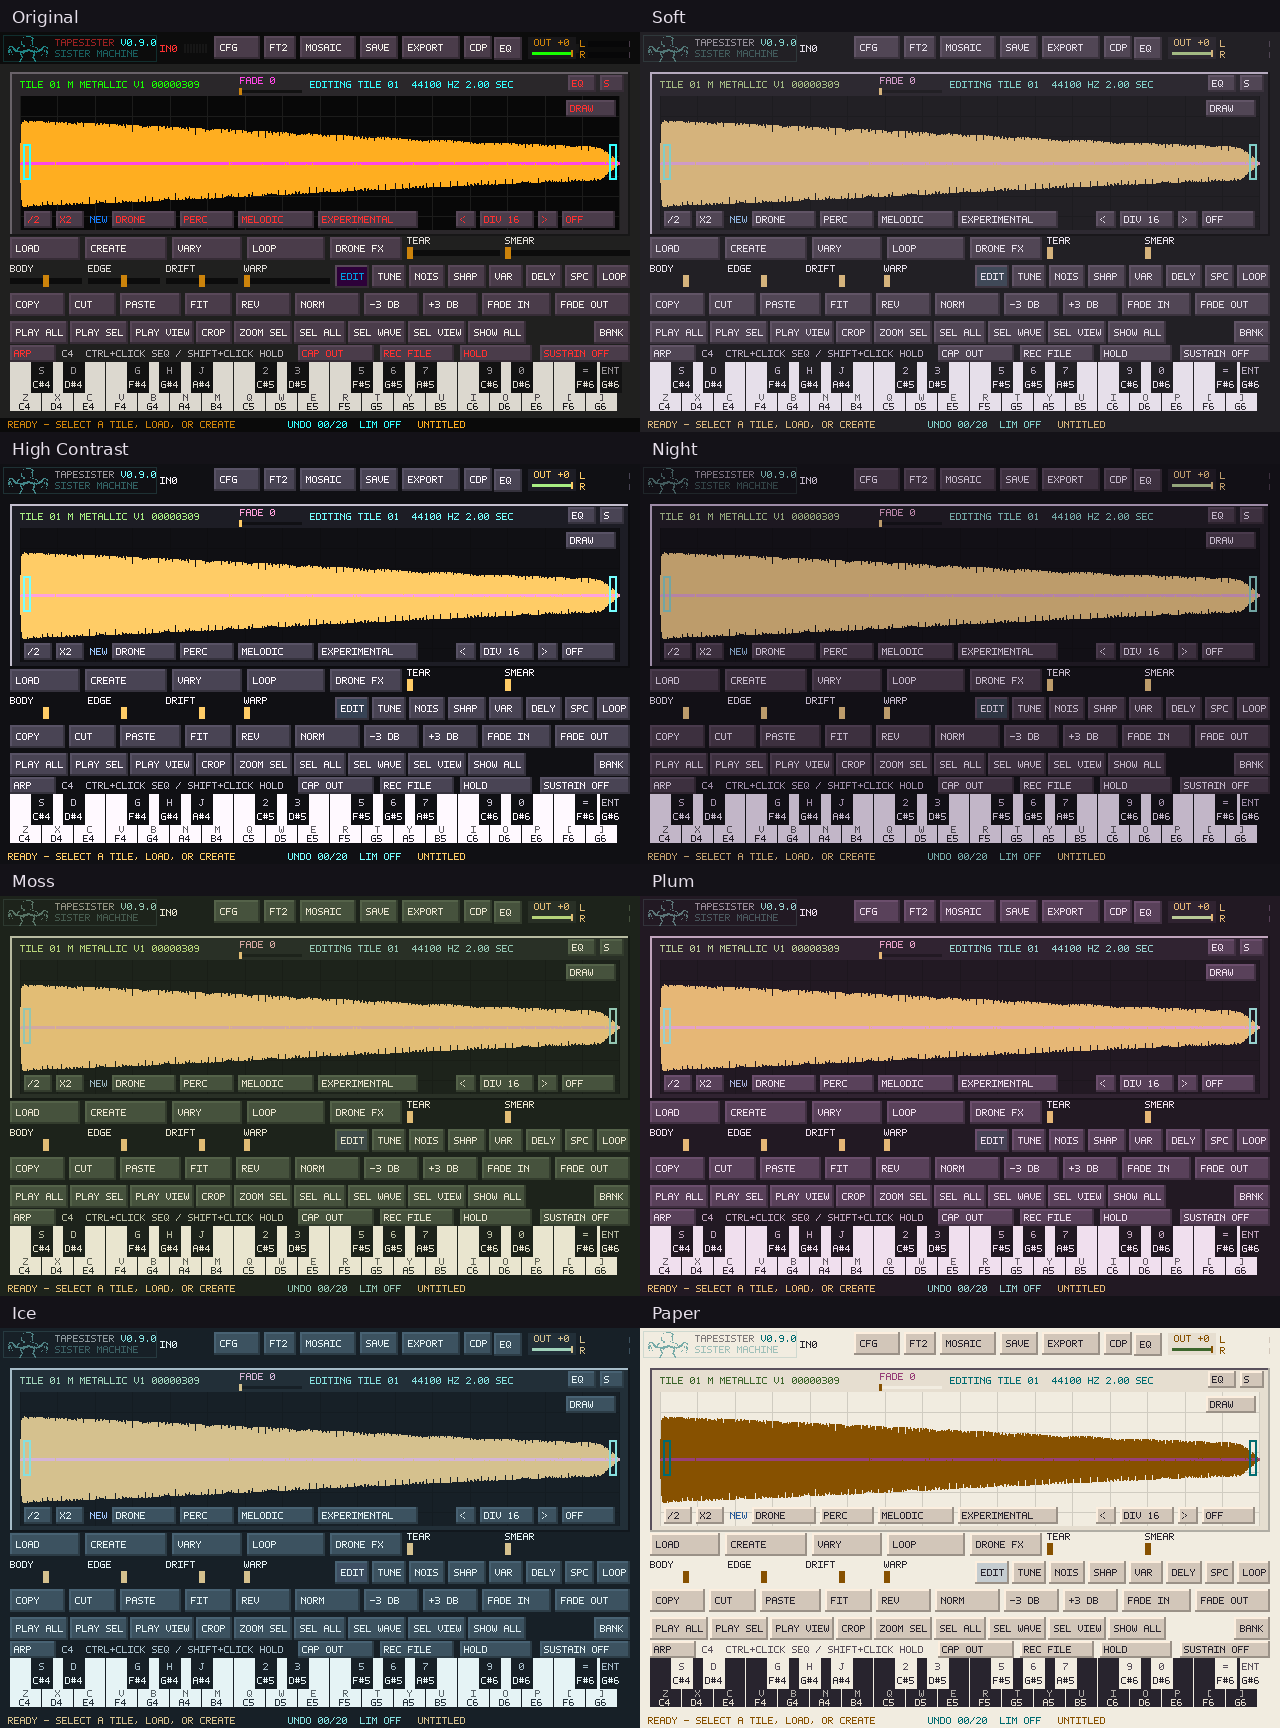
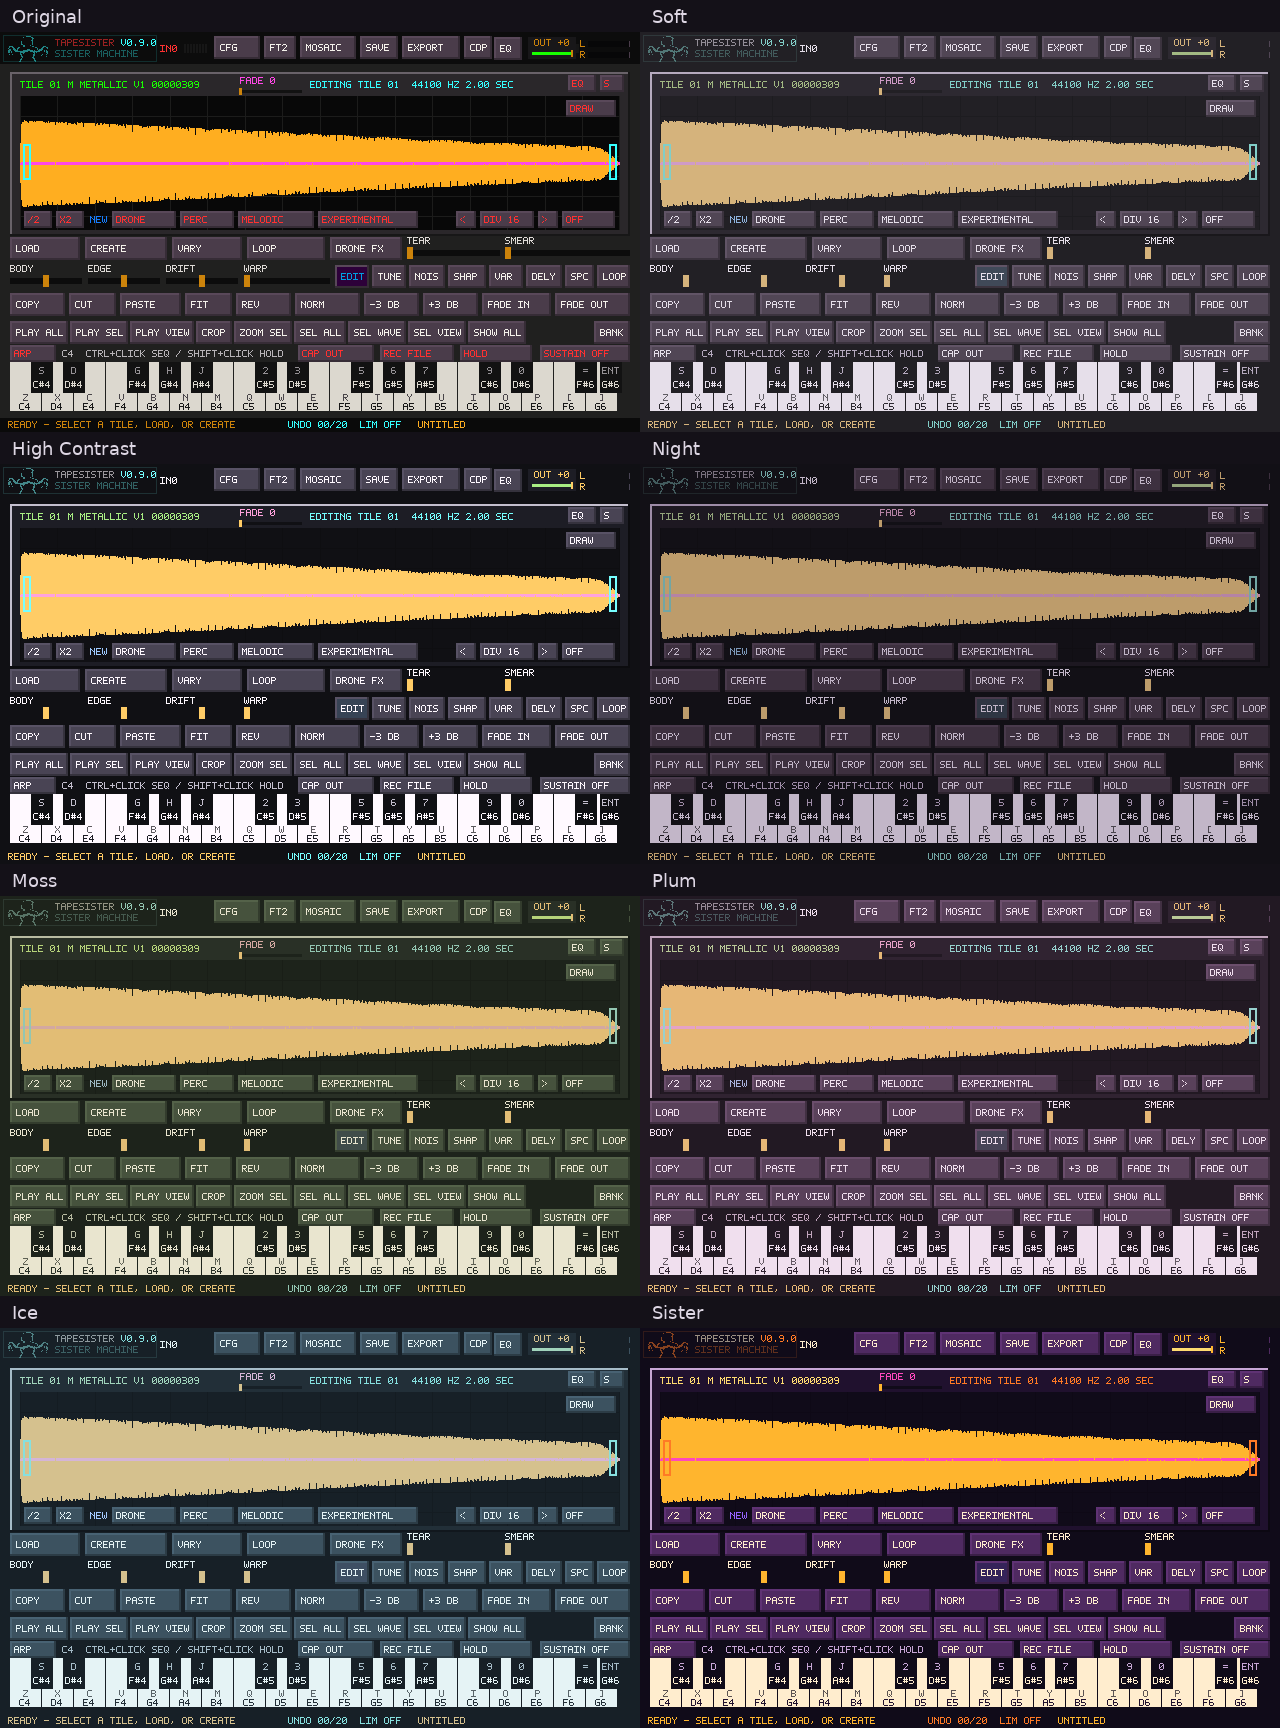
Refine palette with Sister theme, component navigation and opaque EQ rendering
Replace Paper with splash-inspired saturated gold, orange and purple. Open matching workspaces from palette component buttons while preserving playback and pending edits. Keep native canvas waveform detail behind opaque EQ/router panels; cover all eight presets with native composition regressions.

Changed region(s): [[0.5, 0.75, 1.0, 1.0], [0.0312, 0.25, 0.0938, 0.2812], [0.0312, 0.0, 0.0625, 0.0312]]

diff --git a/tests/test_palette_window.c b/tests/test_palette_window.c
@@ -31,6 +31,67 @@ static void snapshot(const char *path,const uint32_t *pixels,int width,int heigh
     SDL_Surface *s=SDL_CreateRGBSurfaceFrom((void*)pixels,width,height,32,width*4,0xff0000,0xff00,0xff,0);
     assert(s&&!SDL_SaveBMP(s,path));SDL_FreeSurface(s);
 }
+static AudioState navigation_audio;
+static TsSamplePages navigation_pages;
+static MosaicController navigation_mosaic;
+static PortalController navigation_portal;
+static TransformController navigation_transform;
+static void component(int group)
+{
+    click(495,123);
+    click(40,164+(group-1)*21);assert(palette_window.requested_group==group);
+    palette_window_navigate(host,0,&navigation_audio,&u,&sister,&navigation_pages,&bank,
+        &navigation_mosaic,&navigation_portal,&navigation_transform);
+    assert(palette_window.visible && !palette_window.requested_group && !palette_window.follow);
+}
+static void navigation(void)
+{
+    char error[160];ts_ui_init(&u);ts_palette_preset(&u.palette,7);
+    ts_sister_runtime_init(&navigation_audio.sister);ts_note_bank_init(&navigation_audio.notes);
+    navigation_audio.output_rate=48000;
+    assert(ts_sample_pages_init(&navigation_pages,error,sizeof(error)));
+    assert(ts_instrument_generate(&bank,TS_GENERATOR_METALLIC,777,error,sizeof(error)));
+    u.mosaic=navigation_audio.mosaic=navigation_pages.mosaic=ts_mosaic_create();assert(u.mosaic);
+    navigation_mosaic.pages=&navigation_pages;navigation_portal.mosaic=&navigation_mosaic;
+    portal_init(&navigation_portal,&u.portal);
+    u.mosaic->playing=1;u.mosaic->time=12.25;
+    navigation_audio.playing=1;navigation_audio.sample=&bank.current;
+    uint64_t hash=ts_sample_hash(&bank.current);
+    TsMasterEqControls eq=navigation_audio.sister.master_eq.controls;
+    component(TS_THEME_MOSAIC);assert(u.mosaic_open);
+    component(TS_THEME_MOSAIC);assert(u.mosaic_open); /* Repeated selection never toggles off. */
+    component(TS_THEME_CANVAS);assert(!u.mosaic_open && !u.tracker_open);
+    for(int g=TS_THEME_SISTER;g<=TS_THEME_PRISM;++g) {
+        component(g);assert(sister.model.visible && sister.model.fx_page==g-TS_THEME_SISTER);
+    }
+    component(TS_THEME_TRACKER);assert(u.tracker_open && u.tracker_embedded_frame && !sister.model.visible);
+    component(TS_THEME_EQ);assert(u.master_eq_open && ts_ui_master_eq_visible(&u));
+    component(TS_THEME_ARP);assert(u.keyboard_sequence_open && ts_ui_keyboard_sequence_visible(&u));
+    component(TS_THEME_CANVAS);assert(!u.keyboard_sequence_open);
+    component(TS_THEME_ROUTER);assert(matrix_window.visible && !matrix_window.compressor_open);
+    component(TS_THEME_SPATIAL);assert(spatial_window.visible);
+    component(TS_THEME_HEALTH);assert(ts_health.visible);
+    component(TS_THEME_TRANSPORT);assert(performance_transport.visible);
+    component(TS_THEME_BROWSER);assert(u.config_open);
+    component(TS_THEME_PORTAL);assert(u.portal.open && !u.config_open && u.portal.source);
+    component(TS_THEME_MIDI);assert(u.midi_learn_active && !u.portal.open);
+    component(TS_THEME_CANVAS);assert(!u.midi_learn_active);
+    /* Pending configuration or EQ edits cannot be silently discarded. */
+    begin_config(&u);++u.config.voice_attack_ms;
+    component(TS_THEME_MOSAIC);assert(u.config_open && !u.mosaic_open);
+    cancel_config(&u);u.canvas_eq_open=u.master_eq_open=1;
+    component(TS_THEME_MOSAIC);assert(u.canvas_eq_open && !u.mosaic_open);
+    u.canvas_eq_open=u.master_eq_open=0;
+    u.fm_open=1;component(TS_THEME_MOSAIC);assert(u.mosaic_open && !u.fm_open && navigation_mosaic.fm_parked);
+    assert(u.mosaic->playing && u.mosaic->time==12.25 && navigation_audio.playing);
+    assert(ts_sample_hash(&bank.current)==hash && !memcmp(&eq,&navigation_audio.sister.master_eq.controls,sizeof(eq)));
+    component(TS_THEME_CANVAS);
+    ts_tapehead_close();if(embedded_host.texture)SDL_DestroyTexture(embedded_host.texture);memset(&embedded_host,0,sizeof(embedded_host));
+    matrix_close();spatial_window_close();ts_audio_health_close();performance_close();
+    SDL_DestroyTexture(sister.texture);SDL_DestroyRenderer(sister.renderer);SDL_DestroyWindow(sister.window);memset(&sister,0,sizeof(sister));
+    portal_free(&navigation_portal);mosaic_controller_free(&navigation_mosaic);ts_mosaic_free(u.mosaic);u.mosaic=NULL;
+    ts_sample_pages_free(&navigation_pages);ts_sister_runtime_free(&navigation_audio.sister);
+}
 static void screenshots(void)
 {
     char path[100],error[160];assert(ts_instrument_generate(&bank,TS_GENERATOR_METALLIC,777,error,sizeof(error)));
@@ -96,9 +157,9 @@ int main(int argc,char **argv)
     tapeheadEmbeddedPaletteCurrent(native_before);ts_palette_preset(&u.palette,7);ts_tapehead_theme_apply(&u.palette);
     tapeheadEmbeddedPaletteCurrent(native_after);assert(!memcmp(native_before,native_after,62));
     ts_tapehead_service(1);const uint32_t *pixels=ts_tapehead_frame();assert(pixels);
-    size_t paper=0;for(int i=290*632;i<632*400;++i)if((pixels[i]&0xffffff)==0xf1ece0)++paper;assert(paper>30000);
-    if(argc>1){snapshot("palette-tracker-paper.bmp",pixels,632,400);u.tracker_open=0;screenshots();}
+    size_t background=0;for(int i=290*632;i<632*400;++i)if((pixels[i]&0xffffff)==0x100b19)++background;assert(background>30000);
+    if(argc>1){snapshot("palette-tracker-sister.bmp",pixels,632,400);u.tracker_open=0;screenshots();}
     ts_tapehead_theme_apply(&original);tapeheadEmbeddedPaletteCurrent(native_after);assert(!memcmp(native_before,native_after,62));
-    ts_tapehead_close();ts_sample_pages_free(&native_pages);palette_window_close();SDL_DestroyWindow(host);ts_instrument_free(&bank);SDL_Quit();
+    ts_tapehead_close();ts_sample_pages_free(&native_pages);navigation();palette_window_close();SDL_DestroyWindow(host);ts_instrument_free(&bank);SDL_Quit();
     puts("Floating palette event ownership, editing, history and native tracker passed");return 0;
 }

diff --git a/src/ts_theme.c b/src/ts_theme.c
@@ -8,7 +8,7 @@ static const char *const group_keys[]={"Overall","Canvas","Sister","Pedalboard",
 static const char *const group_names[]={"Overall look","Canvas / FM","Sister Machine","Pedalboard","Fallout","Prism / morph","Mosaic","TrackSister","Keyboard / ARP","Routing / inserts","EQ / compressor","Spatial / speakers","CDP Portal","Browser / dialogs","Audio health","MIDI learn","Transport"};
 static const char *const role_keys[]={"Background","Panel","Control","Text","Dim","Edge","Grid","Selection","SelectedText","Focus","Activity","Warning","Error","Data1","Data2","Data3","Data4","Data5","Data6","Playhead","Muted","Solo","Record"};
 static const char *const role_names[]={"Background","Panel fill","Control fill","Text","Secondary text","Borders","Grid","Selection fill","Selected text","Focus / pointer","Signal / activity","Warning","Error / clip","Warm accent","Cool accent","Blue accent","Green accent","Pink accent","Violet accent","Playhead","Muted / bypass","Solo","Recording"};
-static const char *const presets[]={"Original","Soft","High Contrast","Night","Moss","Plum","Ice","Paper"};
+static const char *const presets[]={"Original","Soft","High Contrast","Night","Moss","Plum","Ice","Sister"};
 /* bg, panel, control, text, dim, warm, cool, blue, green, pink, violet.
    Surface/text pairs are hand picked; state meaning is also carried by labels. */
 static const uint32_t schemes[8][11]={
@@ -19,7 +19,8 @@ static const uint32_t schemes[8][11]={
  {0x1d231b,0x293026,0x46523d,0xe9e5cf,0xb8bba1,0xe2bd75,0x93c6b2,0x9cb7c1,0xb6d37a,0xd3a8a1,0xb4aac8},
  {0x221923,0x302331,0x59415a,0xf0dfee,0xc1a5bd,0xe6b776,0x97d1ce,0xaab3de,0xbac998,0xe5a2c7,0xc9a8e9},
  {0x172027,0x222f38,0x3c5260,0xe5f3f5,0xa6bcc8,0xd5c18e,0x86e0df,0xa4caff,0xa1d4bc,0xd4b5d7,0xbab6e0},
- {0xf1ece0,0xe6ded0,0xd2c6b9,0x28242e,0x59505c,0x875100,0x006b70,0x285b99,0x3d662c,0x974078,0x675298}
+ /* Splash-screen gold, orange and luminous purple on deep plum. */
+ {0x100b19,0x20112e,0x4f2a61,0xffedce,0xc7a6d6,0xffb52e,0xff7a25,0x9562ff,0xffdb70,0xff48bd,0xc47aff}
 };
 static uint32_t blend(uint32_t a,uint32_t b,int amount) {
     uint32_t c=0xff000000u;if(amount<0)amount=0;if(amount>100)amount=100;
@@ -53,11 +54,11 @@ static uint32_t factory(int preset,int role) {
       case TS_COLOR_BACKGROUND:return bg;case TS_COLOR_PANEL:return s[1]|0xff000000u;
       case TS_COLOR_CONTROL:return s[2]|0xff000000u;case TS_COLOR_TEXT:return text;case TS_COLOR_DIM:case TS_COLOR_MUTED:return s[4]|0xff000000u;
       case TS_COLOR_EDGE:return blend(bg,text,32);case TS_COLOR_GRID:return blend(bg,text,16);
-      case TS_COLOR_SELECTION:return blend(bg,s[7]|0xff000000u,preset==7?22:28);
+      case TS_COLOR_SELECTION:return blend(bg,s[7]|0xff000000u,28);
       case TS_COLOR_SELECTEDTEXT:return text;case TS_COLOR_FOCUS:return s[5]|0xff000000u;
       case TS_COLOR_ACTIVITY:case TS_COLOR_PLAYHEAD:return s[5]|0xff000000u;
-      case TS_COLOR_WARNING:case TS_COLOR_SOLO:return (preset==7?0x8b5500:0xeabc65)|0xff000000u;
-      case TS_COLOR_ERROR:case TS_COLOR_RECORD:return (preset==7?0xa82e38:0xf1848b)|0xff000000u;
+      case TS_COLOR_WARNING:case TS_COLOR_SOLO:return (preset==7?0xffd35c:0xeabc65)|0xff000000u;
+      case TS_COLOR_ERROR:case TS_COLOR_RECORD:return (preset==7?0xff5278:0xf1848b)|0xff000000u;
       default:return s[5+(role-TS_COLOR_DATA1+6)%6]|0xff000000u;
     }
 }
@@ -86,7 +87,8 @@ static uint32_t resolved(const TsPalette *p,int g,int r,uint32_t original,int le
       int k=(int)(r==TS_COLOR_GRID?p->theme.grid_visibility:p->theme.selection_strength)-50;
       if(k) {uint32_t bg=p->theme.overrides[g][TS_COLOR_BACKGROUND];if(!bg)bg=p->theme.overrides[0][TS_COLOR_BACKGROUND];
       if(!bg)bg=factory(p->theme.preset,TS_COLOR_BACKGROUND);
-        c=blend(c,k<0?bg:(p->theme.preset==7?0xff000000u:0xffffffffu),k<0?-k:k);}
+        int light=(((bg>>16)&255)*54+((bg>>8)&255)*183+(bg&255)*19)>160*256;
+        c=blend(c,k<0?bg:(light?0xff000000u:0xffffffffu),k<0?-k:k);}
     }
     return c;
 }

diff --git a/src/main_sdl.c b/src/main_sdl.c
@@ -9222,8 +9222,11 @@ static int workspace_tab_event(const SDL_Event *event, SDL_Window *window,
 static int main_waveform_detail_allowed(const TsUiState *ui)
 {
     if(ui->tracker_open && ui->tracker_embedded_frame)return 0;
-    return ui->portal.open ? !ui->portal.manage_open && !ui->portal.macro_edit :
-        !ui_blocking_dialog_open_except_fm(ui) && !ui->fm_bank_choice_open && !ui->fm_full_choice_open;
+    if(ui->portal.open)return !ui->portal.manage_open && !ui->portal.macro_edit;
+    /* Color equality cannot identify occlusion when two workspaces share a
+       theme. Never composite the hidden canvas signal over these panels. */
+    if(ui->master_eq_open || ui->router_open)return 0;
+    return !ui_blocking_dialog_open_except_fm(ui) && !ui->fm_bank_choice_open && !ui->fm_full_choice_open;
 }
 
 static void native_waveform_prepare(SDL_Renderer *renderer, TsUiWaveformDetail details[2], int enabled)
@@ -14067,7 +14070,14 @@ int main(int argc, char **argv)
             wheel_event_coalesce(&event);
             if (!wheel_event_prepare(&event)) continue;
             uint32_t event_id = event_window_id(&event);
-            if(palette_window_event(&event,window,&ui,&sister_window))continue;
+            if(palette_window_event(&event,window,&ui,&sister_window)) {
+                if(palette_window.requested_group) {
+                    palette_window_navigate(window,device,&audio,&ui,&sister_window,
+                        &sample_pages,&instrument,&mosaic,&portal,&transform);
+                    main_paint_invalid=1;
+                }
+                continue;
+            }
             if (event.type == SDL_WINDOWEVENT &&
                 event.window.event == SDL_WINDOWEVENT_FOCUS_GAINED) {
                 if (sister_window.window != NULL &&

diff --git a/tests/test_theme.c b/tests/test_theme.c
@@ -38,7 +38,15 @@ int main(void)
     FILE *f=fopen("theme-roundtrip.pal","ab");assert(f);fputs("ThemeGrid=101\n",f);fclose(f);
     assert(!ts_palette_load(&loaded,"theme-roundtrip.pal",error,sizeof(error)));
     assert(!memcmp(&p,&loaded,sizeof(p)));remove("theme-roundtrip.pal");
-    ts_palette_preset(&p,7);uint32_t before=ts_theme_color(&p,TS_THEME_ROUTER,TS_COLOR_TEXT,0);
+    ts_palette_preset(&p,7);assert(!strcmp(ts_theme_preset_name(7),"Sister"));
+    assert(luminance(ts_theme_color(&p,TS_THEME_OVERALL,TS_COLOR_BACKGROUND,0))<.02);
+    uint32_t before=ts_theme_color(&p,TS_THEME_ROUTER,TS_COLOR_TEXT,0);
+    p.theme.text_clarity=100;assert(luminance(ts_theme_color(&p,TS_THEME_ROUTER,TS_COLOR_TEXT,0))>luminance(before));
+    p.theme.text_clarity=0;assert(luminance(ts_theme_color(&p,TS_THEME_ROUTER,TS_COLOR_TEXT,0))<luminance(before));
+    /* Custom light backgrounds still reverse clarity toward dark ink. */
+    ts_theme_override(&p,TS_THEME_OVERALL,TS_COLOR_BACKGROUND,0xffeee8df);
+    ts_theme_override(&p,TS_THEME_OVERALL,TS_COLOR_TEXT,0xff504050);p.theme.text_clarity=50;
+    before=ts_theme_color(&p,TS_THEME_ROUTER,TS_COLOR_TEXT,0);
     p.theme.text_clarity=100;assert(luminance(ts_theme_color(&p,TS_THEME_ROUTER,TS_COLOR_TEXT,0))<luminance(before));
     p.theme.text_clarity=0;assert(luminance(ts_theme_color(&p,TS_THEME_ROUTER,TS_COLOR_TEXT,0))>luminance(before));
     ts_palette_preset(&p,0);assert(!memcmp(&p,&original,sizeof(p)));

diff --git a/docs/PALETTE_VALIDATION.md b/docs/PALETTE_VALIDATION.md
@@ -38,9 +38,16 @@ through semantic roles. Existing legacy swatch imports remain usable.
   following and modeless event ownership. It covers Save As, overwrite
   confirmation, import and Save Shared. Ctrl+Shift+P remains available to CDP;
   Ctrl+Alt+P opens the editor.
-- Native TrackSister applies Paper to the actual framebuffer while its 62
+- Component clicks exercise all 16 destinations, repeated selection, pending
+  configuration/EQ guards and parked FM state. Mosaic playback position, canvas
+  playback, source samples and master EQ controls remain unchanged.
+- Native texture-composition tests reproduce the reported EQ ghosting before
+  the fix. Master EQ, tile EQ and the legacy router now fully occlude canvas
+  detail under all eight presets at 4x scale; returning to Canvas restores its
+  native waveform layer. This does not rely on different background colors.
+- Native TrackSister applies Sister to the actual framebuffer while its 62
   preference bytes remain unchanged, then restores Original. The fixture also
-  verifies a light background after the pattern and scopes redraw, covering
+  verifies the plum background after the pattern and scopes redraw, covering
   native clear operations that formerly always filled with black.
 - A deterministic comparison against the unchanged compressor build produces
   identical complete framebuffer hashes for **Canvas, FM, ARP, EQ, legacy
@@ -59,13 +66,15 @@ The images under `docs/screenshots/palette/` come from the real renderers, with
 SDL's dummy video driver, rather than an HTML mockup. Run
 `build/tapesister_palette_window_tests --screenshots` from a scratch directory
 to regenerate BMP captures of all eight Canvas, Pedalboard and Router presets,
-the editor, readability controls and native TrackSister Paper. Documentation
+the editor, readability controls and native TrackSister Sister theme. Documentation
 uses lossless RGB PNG conversions; the preset overview arranges eight captures
 with labels.
 
 ![Routing matrix in Soft](screenshots/palette/router-soft.png)
 
-![TrackSister in Paper](screenshots/palette/tracker-paper.png)
+![TrackSister in Sister](screenshots/palette/tracker-sister.png)
+
+![EQ in High Contrast after the occlusion fix](screenshots/palette/eq-high-contrast.png)
 
 Native multi-monitor movement, mixed-DPI desktop scaling and compositor-specific
 Always on Top behavior still need checks on physical Windows/Linux desktops.

diff --git a/docs/UNIVERSAL_PALETTE.md b/docs/UNIVERSAL_PALETTE.md
@@ -10,8 +10,10 @@ continues. Ctrl+Shift+P still opens CDP Portal.
 ## Start with a preset
 
 Eight presets are built in: **Original**, **Soft**, **High Contrast**, **Night**,
-**Moss**, **Plum**, **Ice**, and **Paper**. Original keeps the existing factory
+**Moss**, **Plum**, **Ice**, and **Sister**. Original keeps the existing factory
 appearance, including the distinct colors of the different workspaces.
+Sister draws from the splash artwork: deep plum surfaces with saturated gold,
+orange, violet and pink. It replaces the former Paper preset.
 Selecting a preset replaces the current customizations; Undo restores them.
 
 ![Eight presets on the same Canvas](screenshots/palette/presets.png)
@@ -33,8 +35,13 @@ Selecting a preset replaces the current customizations; Undo restores them.
   legacy edits; component overrides take precedence over shared values.
 
 **Follow View** selects the component of the active workspace or auxiliary
-window. Selecting a component in the sidebar pins it; turn Follow View back on
-to resume following. **Always on Top** is optional. The window can be moved or
+window. Selecting a component in the sidebar pins it and opens or raises its
+matching interface, keeping the palette editor in front. Repeated clicks leave
+that view open. Browser / dialogs opens configuration (or raises an existing
+browser); EQ / compressor raises an already-open compressor or opens EQ.
+Unfinished edits and confirmations keep ownership: resolve them before changing
+the main workspace. Playback continues during palette navigation.
+Turn Follow View back on to resume following. **Always on Top** is optional. The window can be moved or
 resized with normal operating-system controls.
 
 Select a swatch, then drag its RGB sliders or edit its six-digit hex value.

diff --git a/docs/USER_MANUAL.md b/docs/USER_MANUAL.md
@@ -2020,8 +2020,10 @@ Open **CFG → PALETTE**, the tracker's configuration **Palette** button, or
 workspaces; changes appear immediately, and playback continues.
 
 Choose **Original**, **Soft**, **High Contrast**, **Night**, **Moss**, **Plum**,
-**Ice**, or **Paper**, then use **Overall Look**, **Readability**, or **Components**.
-Components follow the active view unless pinned. Start with its eight relevant
+**Ice**, or **Sister**, then use **Overall Look**, **Readability**, or **Components**.
+Sister uses saturated gold, orange and purple from the splash artwork on a dark background.
+Clicking a component also opens its interface and pins the palette selection;
+Follow View can resume following the active workspace. Start with its eight relevant
 colors, and open **Detail** for additional roles. Component overrides can be
 reset to inherit the overall palette. **Shared Colors** exposes all legacy values.
 
